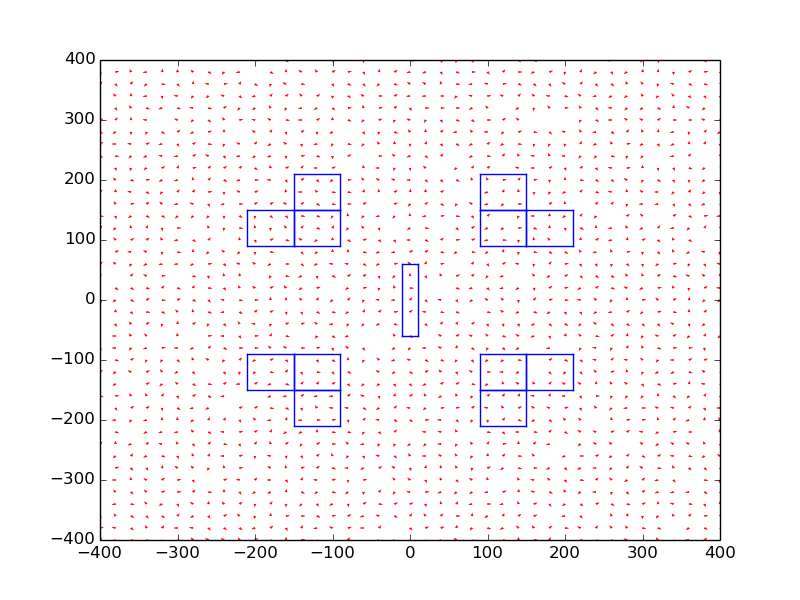
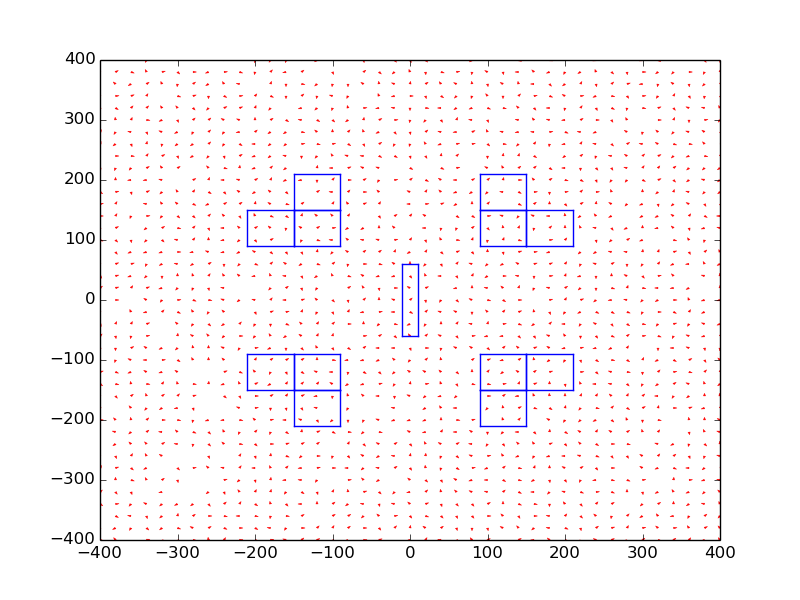
Fixed logic error in obstacle potential field. Frobbing.

diff --git a/bzagents/PFAgent.py b/bzagents/PFAgent.py
@@ -30,20 +30,23 @@ class PFAgent(object):
         self.lastAngle = 0
 
         # frobbing constants
-        self.O_FROB = 0.08
-        self.G_FROB = 0.15
-        self.T_FROB = 0.03
+        self.O_FROB = 0.8
+        self.G_FROB = 0.1
+        self.T_FROB = 1
         self.R_FROB = 0.03
 
     def tick(self, time_diff):
         self.commands = []
 
-        for tank in self.mytanks:
-            x_force, y_force = self.get_forces_on_tank(tank)
-            magnitude = math.sqrt(x_force ** 2 + y_force ** 2)
-            self.targetAngle = math.atan2(y_force, x_force)
-            command = Command(tank.index, magnitude, self.calculate_angvel(tank), False)
-            self.commands.append(command)
+        tank = self.mytanks[0]
+        # for tank in self.mytanks:
+        x_force, y_force = self.get_forces_on_tank(tank)
+        magnitude = math.sqrt(x_force ** 2 + y_force ** 2)
+        self.targetAngle = math.atan2(y_force, x_force)
+        print(self.targetAngle)
+        command = Command(tank.index, magnitude, self.calculate_angvel(tank), False)
+        # print(command.speed, command.angvel)
+        self.commands.append(command)
 
         if self.commands:
             self.bzrc.do_commands(self.commands)
@@ -88,6 +91,7 @@ class PFAgent(object):
             x_force += forces[0]
             y_force += forces[1]
 
+
         return [x_force * self.O_FROB, y_force * self.O_FROB]
 
     def get_obstacle_force(self, obstacle, tank):
@@ -104,8 +108,9 @@ class PFAgent(object):
         average_x /= total_points   # x coordinate of object center
         average_y /= total_points   # y coordinate of object center
 
+
         for point in obstacle:
-            temp = math.sqrt(point[0] ** 2 + point[1] ** 2)
+            temp = math.sqrt((average_x - point[0]) ** 2 + (average_y - point[1]) ** 2)
             if temp > r:
                 r = temp
 
